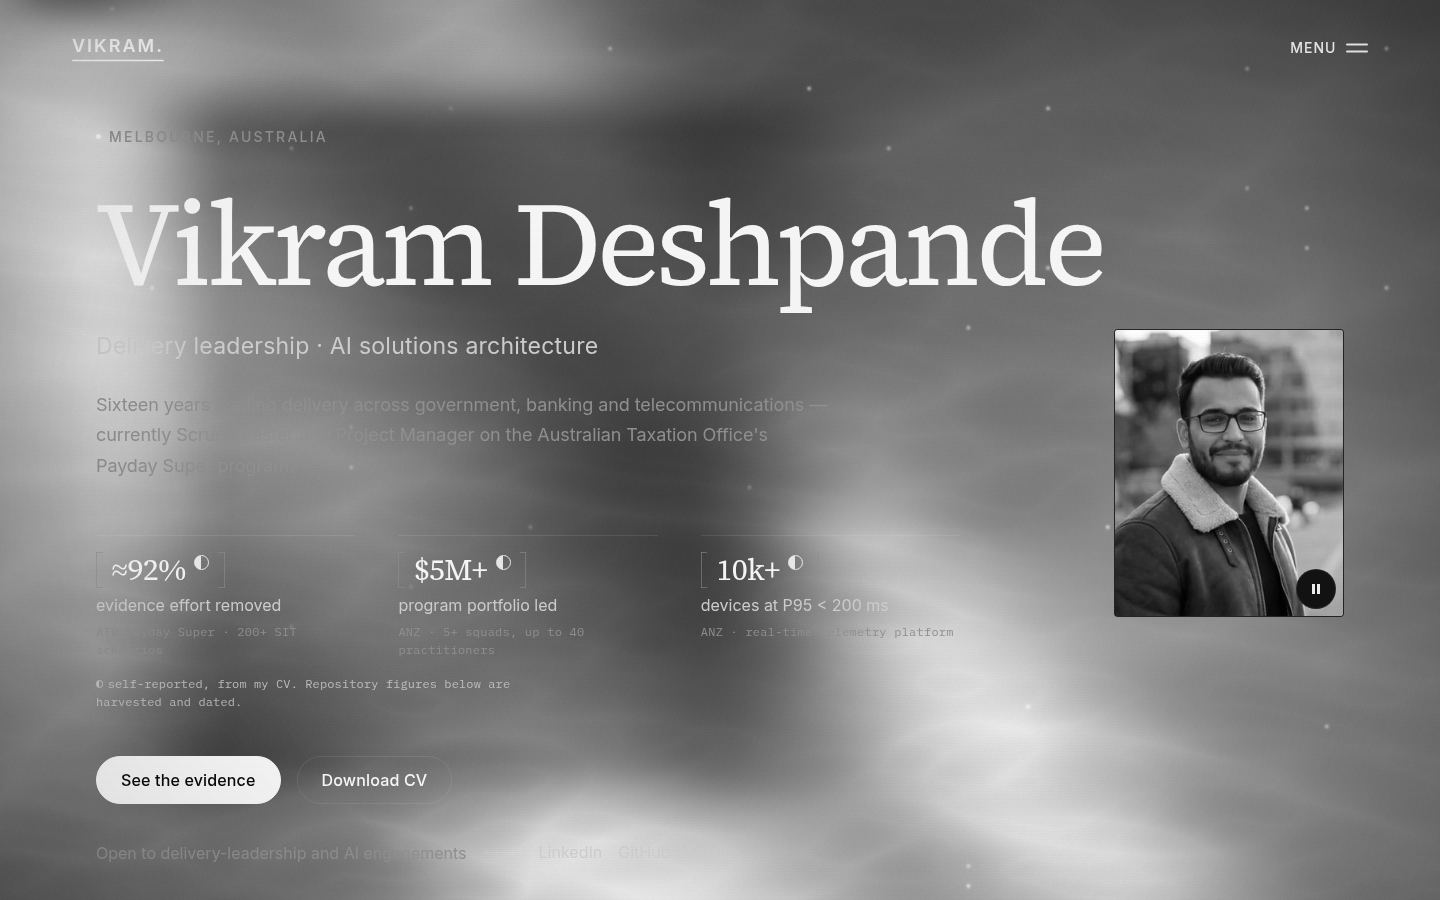
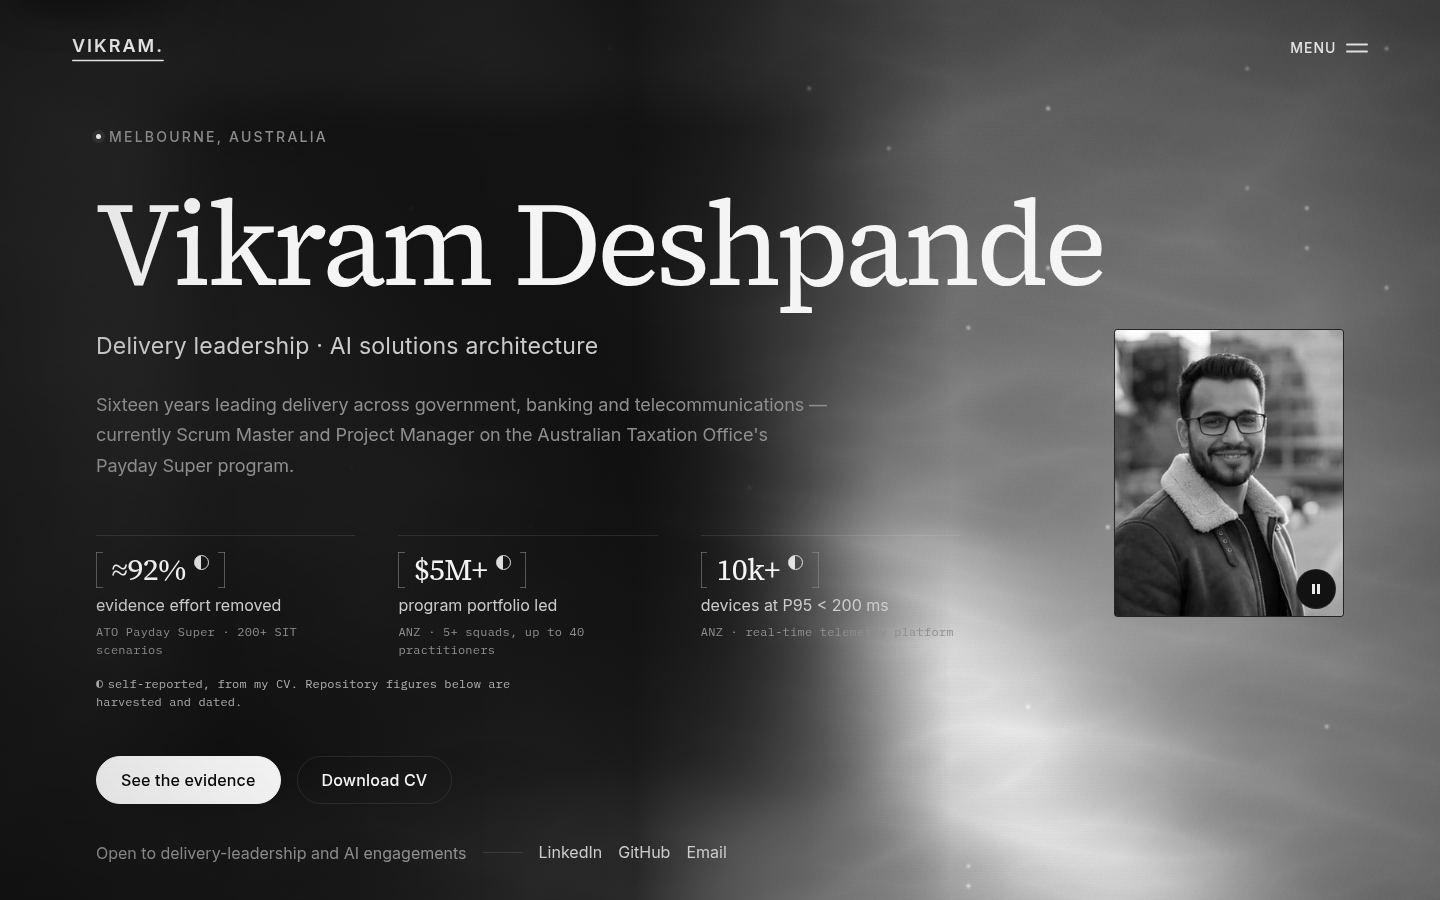
fix(scenes): scrim the copy from the shader, not only from the still
Looking at the captured frames found what the numbers hid. The contrast suite
loads the page without ?gl=force, so it photographs the CSS still and never the
shader; on a machine with a GPU the hero fog covered 96.55% of the frame at
near-white and the statement, the eyebrow and the ledger sources were grey on
milk, and the strata were brightest exactly where .openNote and the axis sit.

.stage and .chartScene paint below their canvas, so their own backgrounds
cannot answer this. Both now carry a ::after scrim, which paints after the
canvas and below the content, so one layer protects the WebGL path and the
still alike. The hero's is 0.88 ink over the left 44% and transparent past 66%:
over the brightest fog this shader makes (0.8308, about #ECECEC) it lands the
ground on #252525, where --mist-400 clears AA at 4.8:1, and the pool, the
portrait plate and the measured light are untouched.

Re-measured: hero 43.05% / 0.8308 / 0.00620 / still 17.30%; about 44.93% /
0.6867 / 0.02435 / 35.29%; experience 25.60% / 0.7529 / 0.04156 / 4.11%.
8 passed exit 0, audit ALL PASS (10/10), build 0.

The residual is named in 07-decisions.md: the GL path still has no automated
contrast gate, and a ?gl=force variant of TC-CONTRAST-01 is the next test.

Evidence: docs/delivery/evidence/v10-20260905T0515Z/C22-flagship-visibility-a/
(04-tests-passing.log, 05c-audit.log, 08-screens/*-glforce-*).

Claude-Session: https://claude.ai/code/session_019V99rzzVPtaEn7KmAr5467

diff --git a/components/sections/Hero/Hero.module.css b/components/sections/Hero/Hero.module.css
@@ -128,6 +128,35 @@
         linear-gradient(180deg, var(--ink-900) 0%, var(--ink-800) 58%, var(--ink-900) 100%);
 }
 
+/* The scrim again, this time over the canvas rather than under it.
+   `.stage`'s own background is *below* the canvas, so it protects the reading
+   column only on the no-GL path; a visitor with a GPU gets the shader, and the
+   shader's fog is near-white — photographed at 1440 with ?gl=force the frame is
+   96.55% lit and `.statement` is grey on milk. `::after` paints after the
+   canvas and before `.inner` (z-index 1, a sibling above `.stage`), so one
+   layer covers both paths.
+
+   0.88 is not a taste decision: over the brightest fog this shader produces
+   (0.8308 relative luminance, about `#ECECEC`) it lands the ground on
+   `#252525`, which is where `--mist-400` still clears AA at 4.8:1. It is
+   transparent past 66% so the pool, the portrait plate and the light the
+   flagship-visibility gate measures are all untouched — the frame keeps its
+   bright side, and the copy gets its dark one. */
+.stage::after {
+    content: "";
+    position: absolute;
+    inset: 0;
+    z-index: 1;
+    pointer-events: none;
+    background: linear-gradient(
+        90deg,
+        rgb(10 10 10 / 0.88) 0%,
+        rgb(10 10 10 / 0.86) 44%,
+        rgb(10 10 10 / 0.45) 56%,
+        transparent 66%
+    );
+}
+
 /* At 390 the column is the whole frame: there is no right-hand third to give
    the light, because the copy is standing in it. So the scrim covers the frame
    instead of a side of it, and the still keeps its structure as a grading
@@ -135,6 +164,10 @@
    clears at 6.1:1. The shader path is unaffected: the canvas fills `.stage`
    and draws over all of this. */
 @media (max-width: 700px) {
+    .stage::after {
+        background: linear-gradient(90deg, rgb(10 10 10 / 0.86), rgb(10 10 10 / 0.86));
+    }
+
     .stage {
         background:
             linear-gradient(90deg, rgb(10 10 10 / 0.72), rgb(10 10 10 / 0.72)),

diff --git a/components/sections/Experience/Experience.module.css b/components/sections/Experience/Experience.module.css
@@ -125,6 +125,28 @@
     background-repeat: no-repeat, no-repeat, repeat;
 }
 
+/* The foot of the slot, over the canvas. `.openNote` (`--mist-400`) and the
+   axis sit in the last fifth of the chart, and the shader is brightest exactly
+   there — `fade` runs to its maximum at the bottom of the frame. Photographed
+   at ?gl=force the note was grey on lit sediment. This paints after the canvas
+   and below the tracks (z-index 1 on `.trackField` and `.axis`), so it costs
+   the strata their least interesting region and buys the note its ground back.
+   The bright band of the reduced-motion still sits at 4–10% and is untouched. */
+.chartScene::after {
+    content: "";
+    position: absolute;
+    inset: 0;
+    z-index: 1;
+    pointer-events: none;
+    background: linear-gradient(
+        180deg,
+        transparent 0 74%,
+        rgb(10 10 10 / 0.55) 84%,
+        rgb(10 10 10 / 0.86) 94%,
+        rgb(10 10 10 / 0.86) 100%
+    );
+}
+
 /* The year gridlines. Drawn once behind every track rather than per row, so a
    bar's position can be read against a year without tracing four hundred
    pixels down to the axis. `--grid-*` are the same fractions the axis labels

diff --git a/docs/delivery/evidence/v10-20260905T0515Z/C22-flagship-visibility-a/07-decisions.md b/docs/delivery/evidence/v10-20260905T0515Z/C22-flagship-visibility-a/07-decisions.md
@@ -100,3 +100,39 @@ http.server` on 127.0.0.1:5602), Read (the captured frames), Playwright via
 `playwright-core` with `channel: 'chrome'` and
 `--no-sandbox --use-gl=swiftshader --enable-unsafe-swiftshader --ignore-gpu-blocklist`
 for the `?gl=force` captures. No MCP server was used.
+
+## Addendum — what the gate could not see (10:00Z)
+
+Looking at the captured frames rather than the numbers found a defect no test in
+this lane owns. `tests/a11y/text-contrast.spec.ts` loads the page **without**
+`?gl=force`, so it photographs the CSS still and never the shader. On a machine
+with a GPU:
+
+* the hero fog covered 96.55% of the frame at near-white and `.statement`,
+  `.eyebrow` and the ledger sources were grey on milk;
+* the strata were brightest at the foot of the slot, which is exactly where
+  `.openNote` and the axis sit.
+
+`.stage`'s and `.chartScene`'s own backgrounds sit *below* the canvas, so they
+cannot fix this. Both sections now carry a `::after` scrim, which paints after
+the canvas and below the content (`.inner` and `.trackField`/`.axis` are
+z-index 1 above the slot), so one layer protects both paths. The hero's is
+0.88 ink over the left 44%, transparent past 66% — over the brightest fog this
+shader makes (0.8308, about `#ECECEC`) that lands the ground on `#252525`,
+where `--mist-400` clears AA at 4.8:1, and it leaves the pool, the portrait
+plate and the measured light untouched. The experience one takes the last fifth
+of the slot.
+
+Re-measured after the scrims (`04-tests-passing.log`, exit 0, 8 passed):
+
+| scene | coverage | peak | motion | still |
+|---|---|---|---|---|
+| hero atmosphere | 43.05% | 0.8308 | 0.00620 | 17.30% |
+| about compass field | 44.93% | 0.6867 | 0.02435 | 35.29% |
+| experience strata | 25.60% | 0.7529 | 0.04156 | 4.11% |
+
+**Residual, named:** the GL path has no automated contrast gate. The hero's
+third ledger source is the dimmest node on that path (it sits at 48–66% of the
+frame, where the scrim is ramping out) and is readable in
+`08-screens/hero-1440-glforce-rest.jpg`, but a `?gl=force` variant of
+TC-CONTRAST-01 is the right next test and is not written here.
